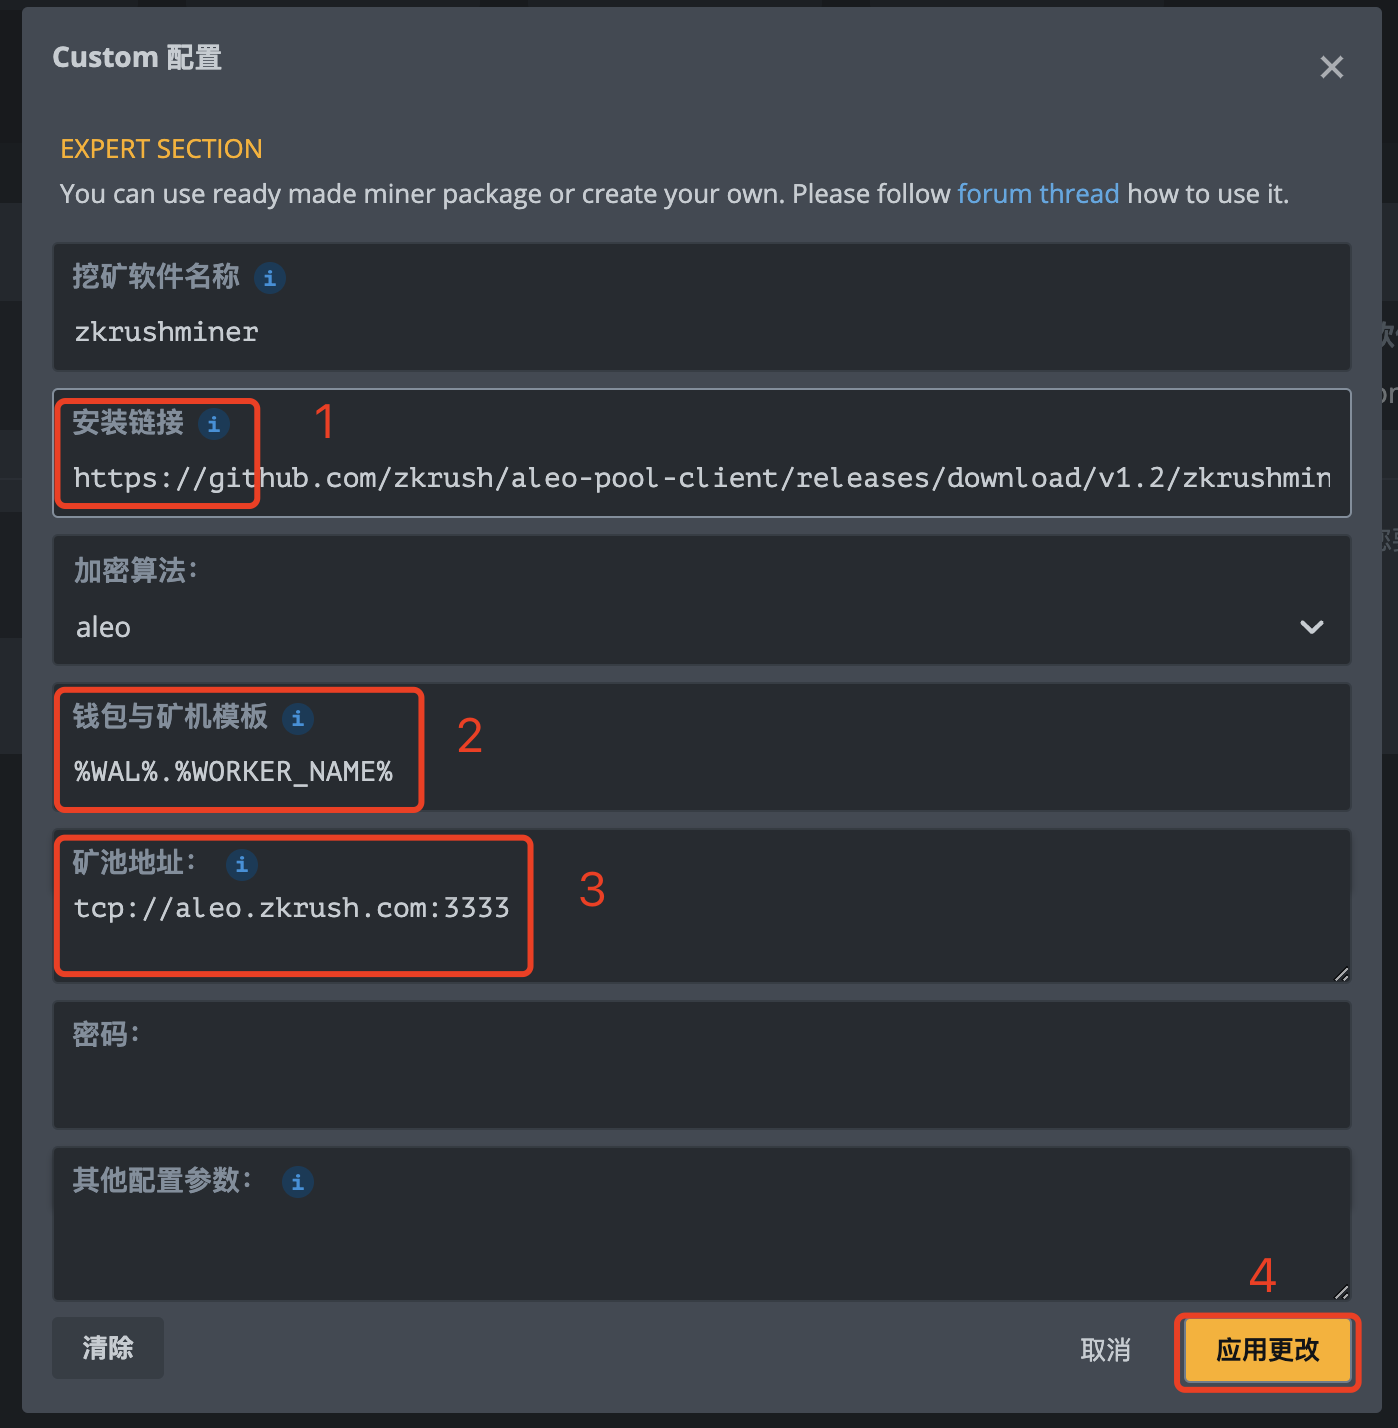
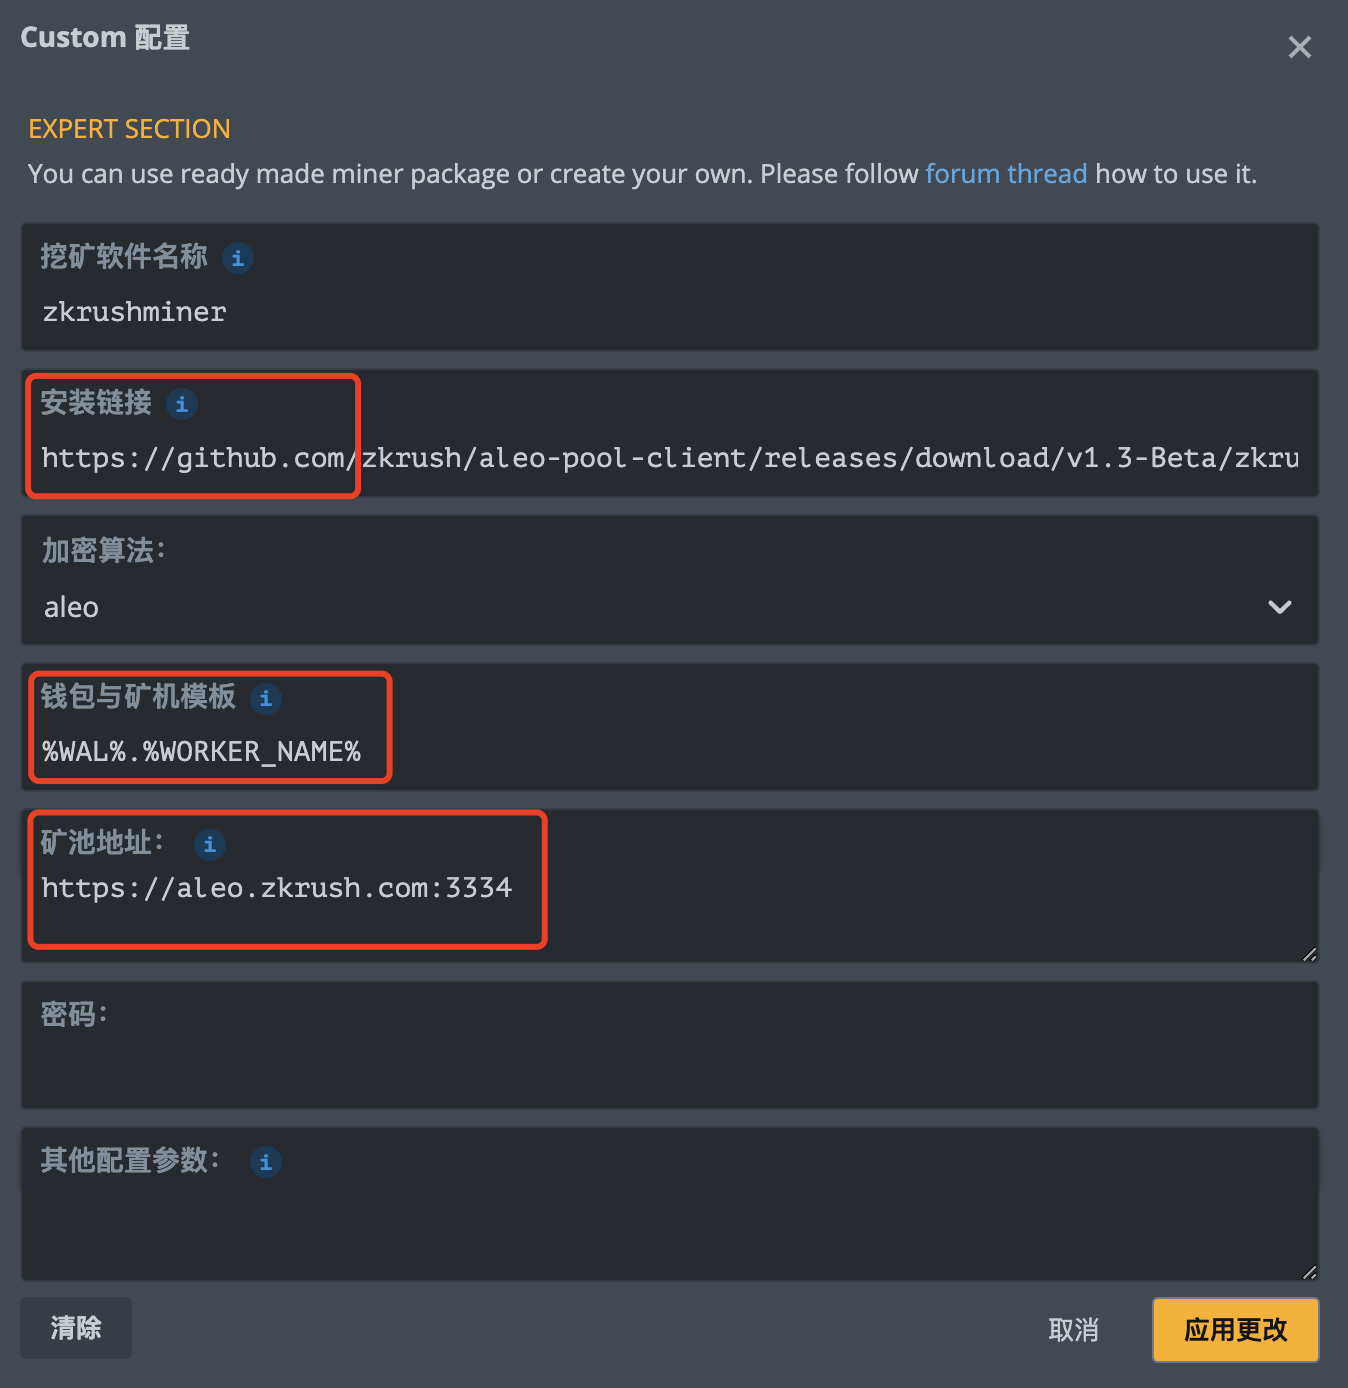
v1.3-beta

Changed region(s): [[0.0, 0.0, 1.0, 1.0]]

diff --git a/docs/en/_document/aleo_hiveos.md b/docs/en/_document/aleo_hiveos.md
@@ -1,0 +1,74 @@
+# ZKRush ALEO on HiveOS
+
+## 1. Create Wallets
+
+![hive_create_account](../_media/hive_create_account.png ':size=100%')
+
+```shell
+1. Click [Wallets]
+2. Click [Add Wallet]
+```
+
+![hive_create_account2](../_media/hive_create_account2.png ':size=50%')
+
+```shell
+1. Choose [ALEO] in Coin
+2. Input the mining account you created on ZKRush in [Address]
+3. Click [Create]
+```
+
+⚠If you didn't create mining account ever, Please refer to  [Add Mining Account](/en/_document/miner_account?id=add-mining-account)
+
+
+
+## 2. Create Flight Sheets
+
+```shell
+1. Click [Flight Sheets]
+2. Click [Create Flight Sheet]
+```
+
+![hive_create_flight2](../_media/hive_create_flight2.png ':size=100%')
+```shell
+1. Choose [ALEO] in Coin
+2. Choose the wallet you just created in step 1
+3. Choose [Configure in miner] in [Pool]
+4. Choose [Custom] in [Miner]
+5. Click [Setup Miner Config]
+```
+
+![hive_create_custom](../_media/hive_create_custom.png ':size=50%')
+
+```shell
+1. Input [https://github.com/zkrush/aleo-pool-client/releases/download/v1.3-Beta/aleo-pool-prover-hiveos.tar.gz]
+2. Input [%WAL%.%WORKER_NAME%] into [Wallet and worker template]
+3. Input [https://aleo.zkrush.com:3334] into [Pool URL]
+4. Click [Apply Changes]
+5、Click [Create Flight Sheet]
+```
+
+⚠Please follow the official announcement of ZKRush for the latest installation URL
+
+
+
+## 3. Apply Flight Sheet
+
+![hive_apply_flight](../_media/hive_apply_flight.png ':size=75%')
+
+```shell
+1. Click [Workers]
+2. Choose [Workers]
+3. Click [Select Flight Sheet] on the Navigation Bar
+4. Choose [Flight Sheet] you just created in Step 2
+```
+
+![hive_apply_flight2](../_media/hive_apply_flight2.png ':size=50%')
+```shell
+1、Click [Apply]
+```
+
+⚠Worker running automatically after applying the Flight sheet
+
+## 4. Check Worker Status
+
+![hive_miner_status](../_media/hive_miner_status.png ':size=100%')

diff --git a/docs/_document/aleo_hiveos.md b/docs/_document/aleo_hiveos.md
@@ -19,8 +19,6 @@
 
 ⚠如未創建過挖礦地址，參考文檔 [添加挖礦賬號](/_document/miner_account?id=添加挖礦賬號)
 
-![show_account](../_media/show_account.png ':size=50%')
-
 
 
 ## 二、創建飛行表
@@ -44,9 +42,9 @@
 ![hive_create_custom](../_media/hive_create_custom.png ':size=50%')
 
 ```shell
-1、安裝鏈接輸入【https://github.com/zkrush/aleo-pool-client/releases/download/v1.2/zkrushminer-v1.2.tar.gz】
+1、安裝鏈接輸入【https://github.com/zkrush/aleo-pool-client/releases/download/v1.3-Beta/aleo-pool-prover-hiveos.tar.gz】
 2、錢包與礦機模版輸入【%WAL%.%WORKER_NAME%】
-3、礦池地址輸入【tcp://aleo.zkrush.com:3333】
+3、礦池地址輸入【https://aleo.zkrush.com:3334】
 4、點擊【應用更改】
 ```
 

diff --git a/docs/README.md b/docs/README.md
@@ -29,7 +29,7 @@ Download driver:https://www.nvidia.com/download/index.aspx
 
 ## Mining Pool URL
 
-tcp://aleo.zkrush.com:3333
+https://aleo.zkrush.com:3334
 
 
 
@@ -64,7 +64,7 @@ chmod +x aleo-pool-prover
 Replace 'account' in the following command with your 'mining account', and replace 'machine_name' with your 'device name'
 
 ```shell
-nohup ./aleo-pool-prover --dest tcp://aleo.zkrush.com:3333 --account account --machine-name machine_name &> prover.log &
+nohup ./aleo-pool-prover --dest https://aleo.zkrush.com:3334 --account account --machine-name machine_name &> prover.log &
 ```
 
 **Startup Parameters Explained：**

diff --git a/docs/en/README.md b/docs/en/README.md
@@ -29,7 +29,7 @@ Download driver:https://www.nvidia.com/download/index.aspx
 
 ## Mining Pool URL
 
-tcp://aleo.zkrush.com:3333
+https://aleo.zkrush.com:3334
 
 
 
@@ -64,7 +64,7 @@ chmod +x aleo-pool-prover
 Replace 'account' in the following command with your 'mining account', and replace 'machine_name' with your 'device name'
 
 ```shell
-nohup ./aleo-pool-prover --dest tcp://aleo.zkrush.com:3333 --account account --machine-name machine_name &> prover.log &
+nohup ./aleo-pool-prover --dest https://aleo.zkrush.com:3334 --account account --machine-name machine_name &> prover.log &
 ```
 
 **Startup Parameters Explained：**

diff --git a/docs/en/_document/aleo_testnet.md b/docs/en/_document/aleo_testnet.md
@@ -12,7 +12,7 @@ Download driver:https://www.nvidia.com/download/index.aspx
 
 ## Mining Pool URL
 
-tcp://aleo.zkrush.com:3333
+https://aleo.zkrush.com:3334
 
 
 
@@ -47,7 +47,7 @@ chmod +x aleo-pool-prover
 Replace 'account' in the following command with your 'mining account', and replace 'machine_name' with your 'device name'
 
 ```shell
-nohup ./aleo-pool-prover --dest tcp://aleo.zkrush.com:3333 --account account --machine-name machine_name &> prover.log &
+nohup ./aleo-pool-prover --dest https://aleo.zkrush.com:3334 --account account --machine-name machine_name &> prover.log &
 ```
 
 **Startup Parameters Explained：**

diff --git a/docs/en/_sidebar.md b/docs/en/_sidebar.md
@@ -1,5 +1,6 @@
 - **> Mining Guide for Beginners**
   - [- <font color=red>Aleo Testnet Tutorial</font>](en/_document/aleo_testnet.md)
+  - [- <font color=red>Aleo HiveOS Tutorial</font>](en/_document/aleo_hiveos.md)
 - **> Website Tutorial**
   - **> Master Account**
     - [- Sign Up / Sign In Master Account](en/_document/account_login.md)

diff --git a/docs/_sidebar.md b/docs/_sidebar.md
@@ -1,5 +1,6 @@
 - **> 挖礦教程**
   - [- <font color=red>ALEO測試網挖礦教程</font> ](_document/aleo_testnet.md)
+  - [- <font color=red>ALEO HiveOS教程</font> ](_document/aleo_hiveos.md)
 - **> 網站教程**
   - **> 主賬戶**
     - [- 註冊/登錄](_document/account_login.md)
